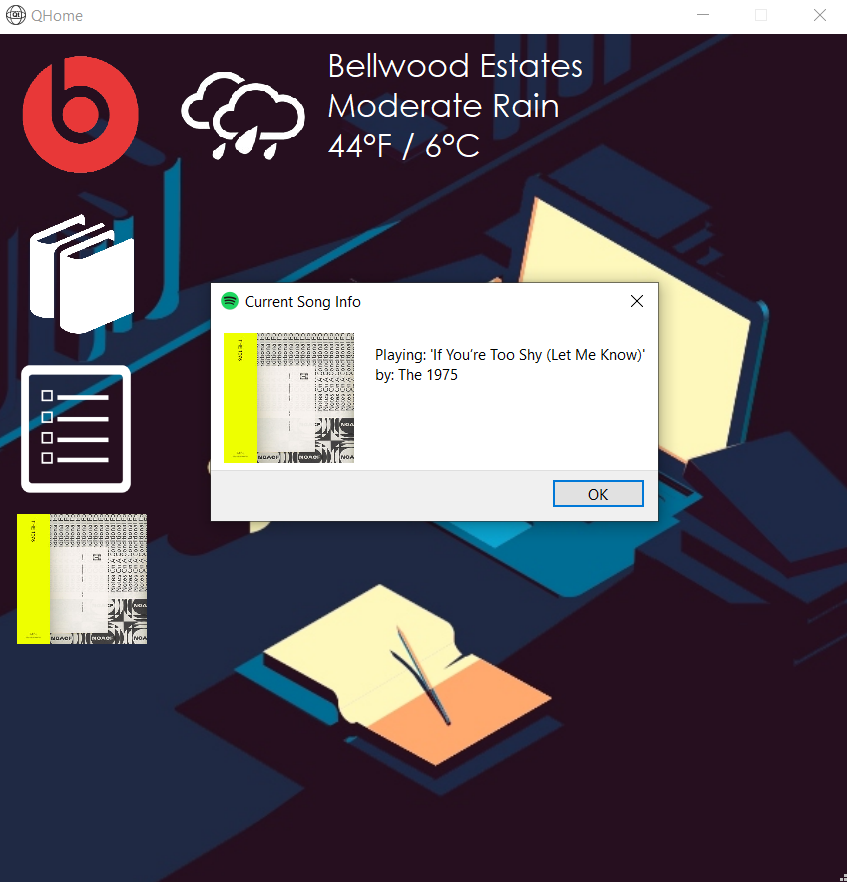
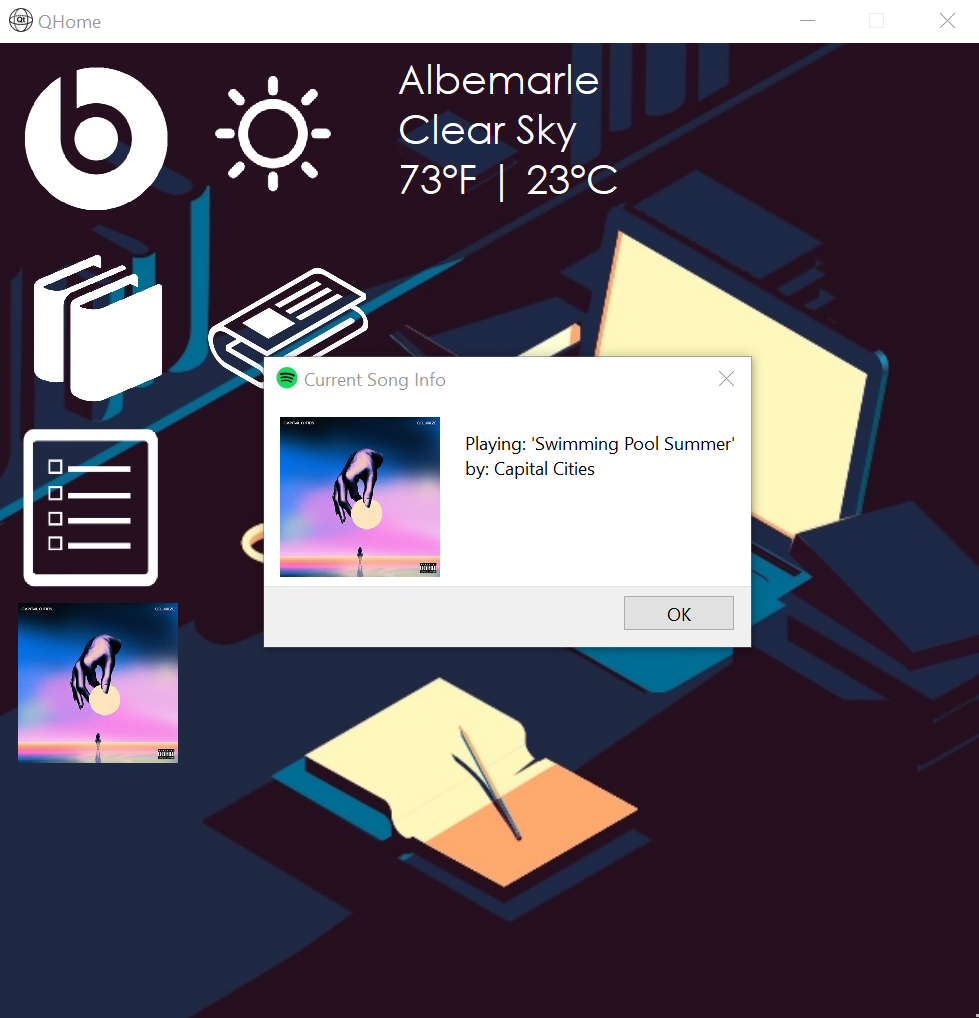
news readme update

diff --git a/README.md b/README.md
@@ -10,11 +10,14 @@ Features include:
    
 ⋅ Ability to connect to users Beats wireless headphones via bluetooth once device is found and saved.  
   
-⋅ Ability to create up to 6 course items that will open up various system files and webpages specified by the user.  
-  
+⋅ Ability to create up to 6 course items that will open up various system files and webpages specified by the user.    
 ⋅ Notepad to record various things for later lookup.  
   
 ⋅ Ability to control playback of user's active spotify session such as playing/pausing current track, changing volume, skip to next/previous track, queue tracks from the user's playlists and getting information about user's currently playing track all via the Spotify API.   
+
+⋅ Ability to check top news articles in USA by making calls to news API. Clicking on article name opens a borwser window with link to desired article.
   
-![Image 1](img/demoPic.png)   
+
+![Image 1](img/newsQHome.png)   
+![Image 2](img/demoQHome.png)   
 
